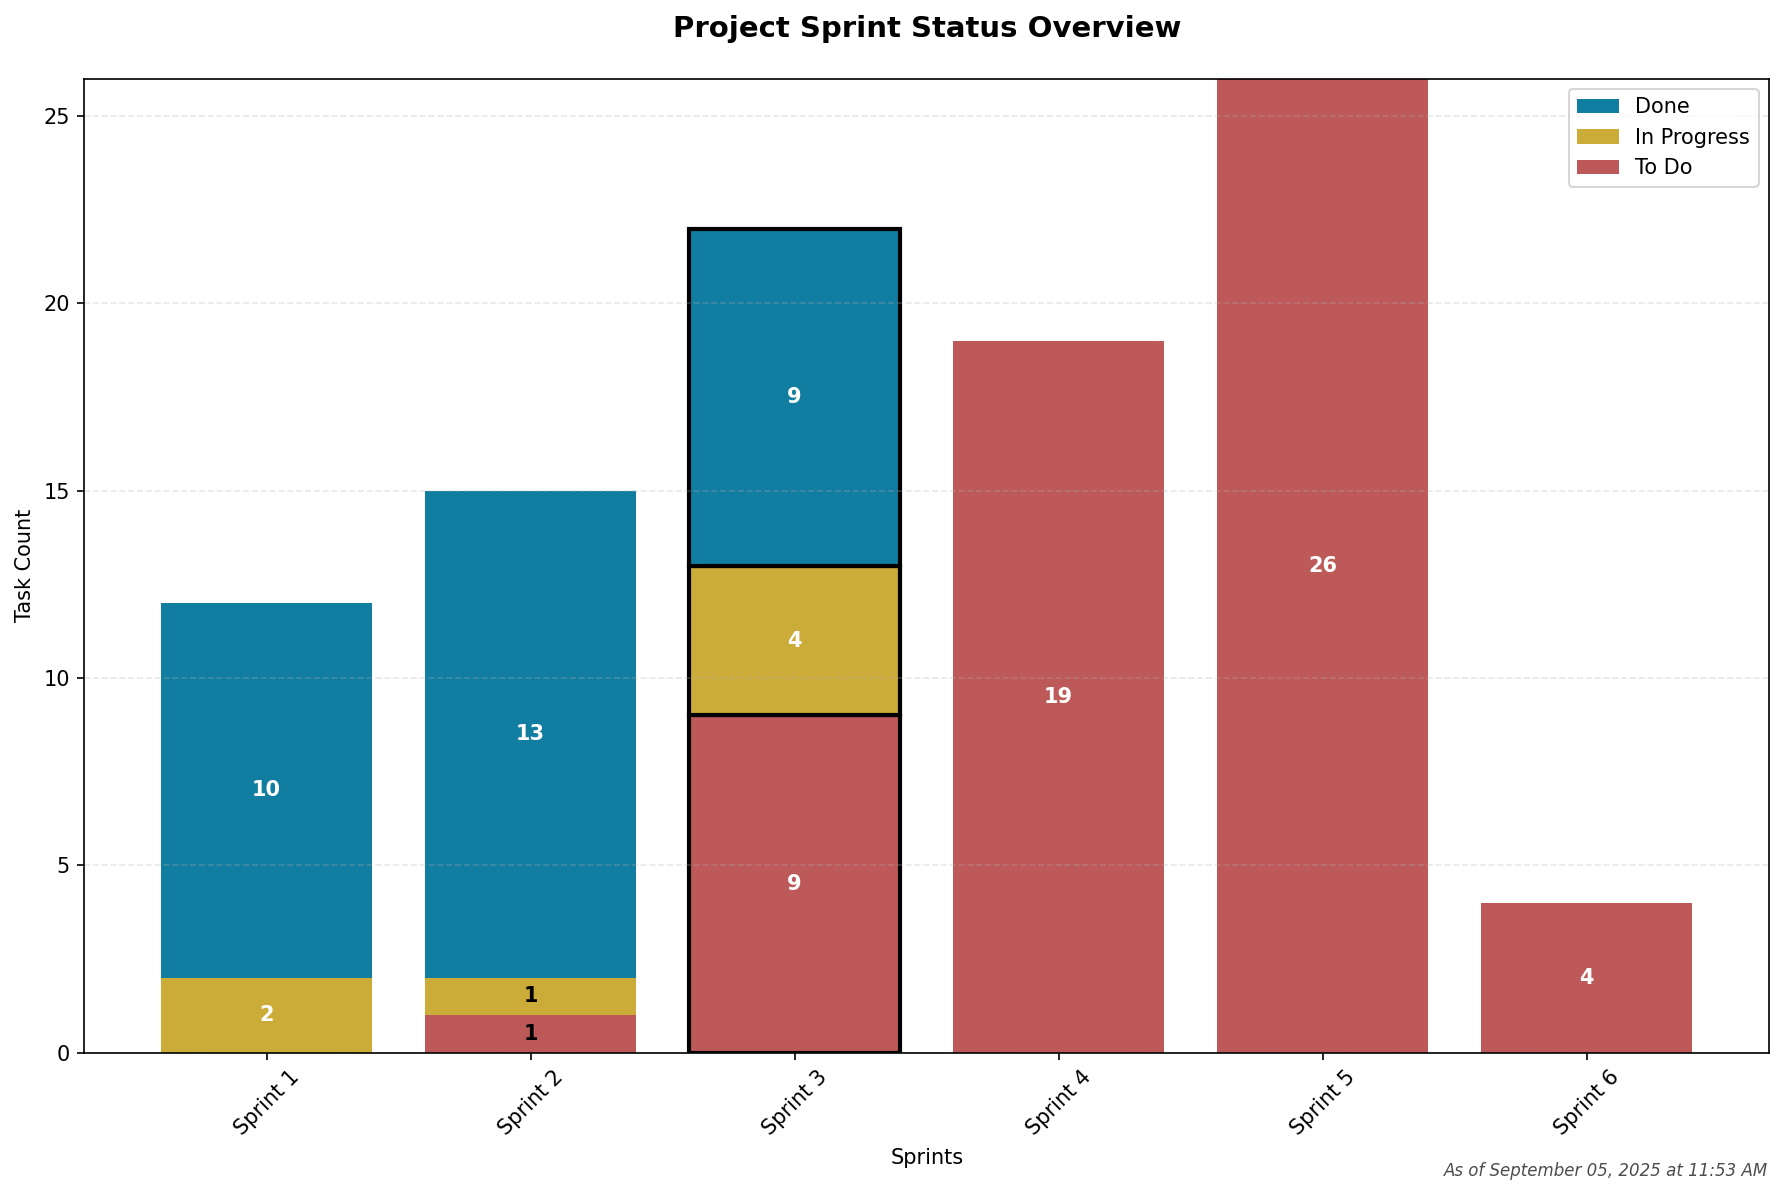
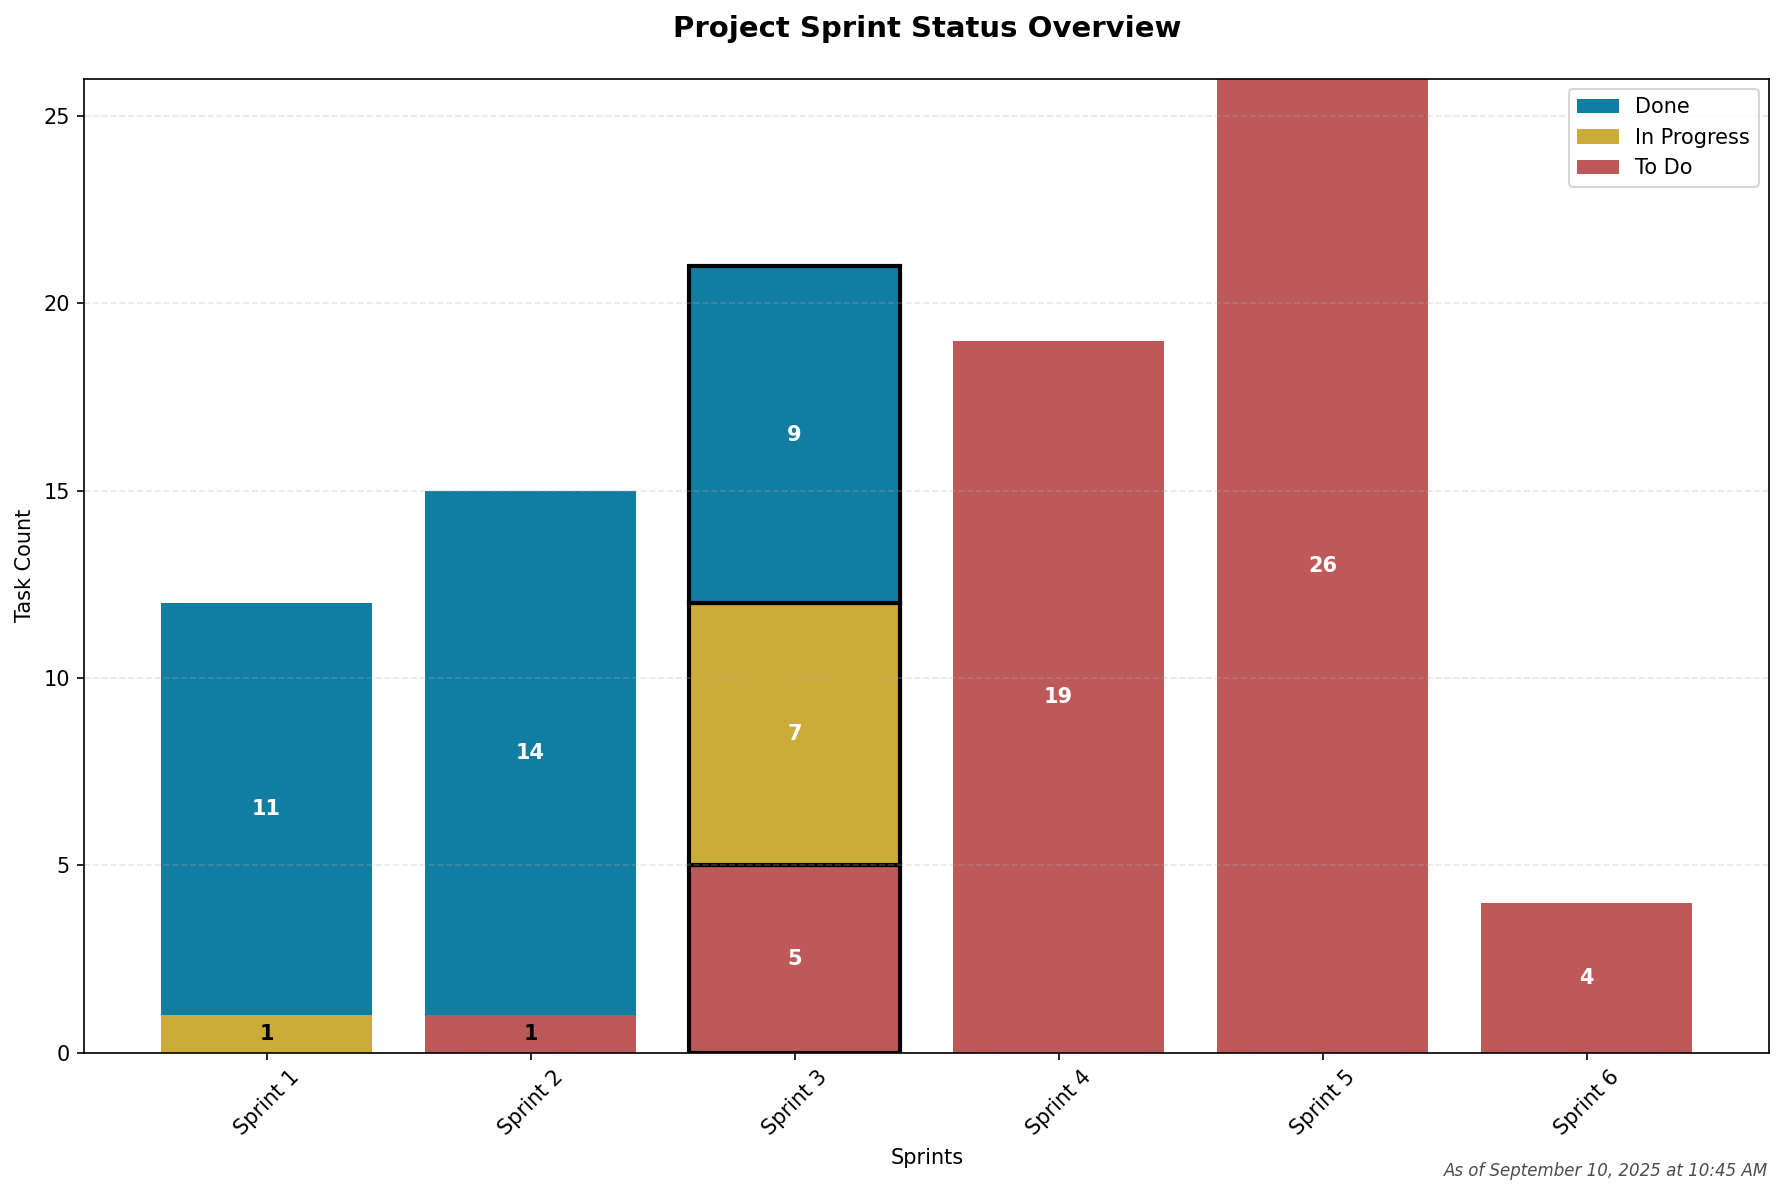
Update sprint status and progress in tracker
Increased progress for ETL infrastructure to 65% and marked several tasks as complete or in progress in the project_tracker.md. Updated sprint_status_chart.png to reflect current status.

diff --git a/project_tracker.md b/project_tracker.md
@@ -25,7 +25,7 @@
 |--------|----------------|------------|--------------------------------|
 | 1      | ✅ Complete     | 95%       | AWS Setup pending with Jake Jones |
 | 2      | ✅ Complete     | 95%       | Feature engineering and data processing complete, interaction data not included in feature set |
-| 3      | 🔄 In Progress  | 55%       | ETL infrastructure, churn logic, and data validation in progress |
+| 3      | 🔄 In Progress  | 65%       | ETL infrastructure, churn logic, and data validation in progress |
 | 4      | ⏳ Not Started  | 0%        |                                |
 | 5      | ⏳ Not Started  | 0%        |                                |
 | 6      | ⏳ Not Started  | 0%        |                                |
@@ -55,7 +55,7 @@
 
 ### Sprint Goals
 - [x] Initial meeting clarifying expectations and intial plan 
-- [~] Gather info and request access to necessary systems and tools
+- [x] Gather info and request access to necessary systems and tools
     - [x] Confluence (Keystone & Data Services)
     - [x] Github
     - [x] Database (LADYSIF & Redshift)
@@ -97,7 +97,7 @@
     - [x] Add time-window aggregations (e.g. 30/60/90 day summaries)
 - [x] Draft feature store schema (~200 features Customer+Acct+Transaction)
     - [x] Generate customer snapshots
-- [~] Validate data output with sample customers (100)
+- [x] Validate data output with sample customers (100)
 
 ### Weekly Check-In *(Aug 20 & Aug 28)*
 - **Progress Summary:** Completed customer/demographic data ingestion and advanced feature engineering. 80% complete on transaction data ingestion. Sprint 2/3 hybrid approach proving effective.
@@ -129,13 +129,12 @@
 - [x] Develop generate_churn_label() function using lookahead window
     - [ ] _get_eligible_customers() (minimum tenure, only data up until churn event, etc)
     - [~] Create reference documents on decision-making and functionality
-- [ ] Feature store creation in S3
+- [~] Feature store creation in S3
     - [ ] Execute historical backfill ETL for 3-month training dataset
     - [ ] Configure automated ETL scheduling (EventBridge?)
 - [ ] Exploratory Data Analysis with data distribution and correlation focus
-- [ ] Validate churn criteria with business stakeholders (schedule meeting)
-- [ ] Complete comprehensive EDA with feature distributions and correlations
-- [ ] Test full population data processing (beyond sample validation)
+- [~] Validate churn criteria with business stakeholders (schedule meeting)
+- [~] Test full population data processing (beyond sample validation)
 - [ ] Refine data quality scoring and drift detection 
 
 ### Weekly Check-In *(Sep 5 & Sep 12)*
